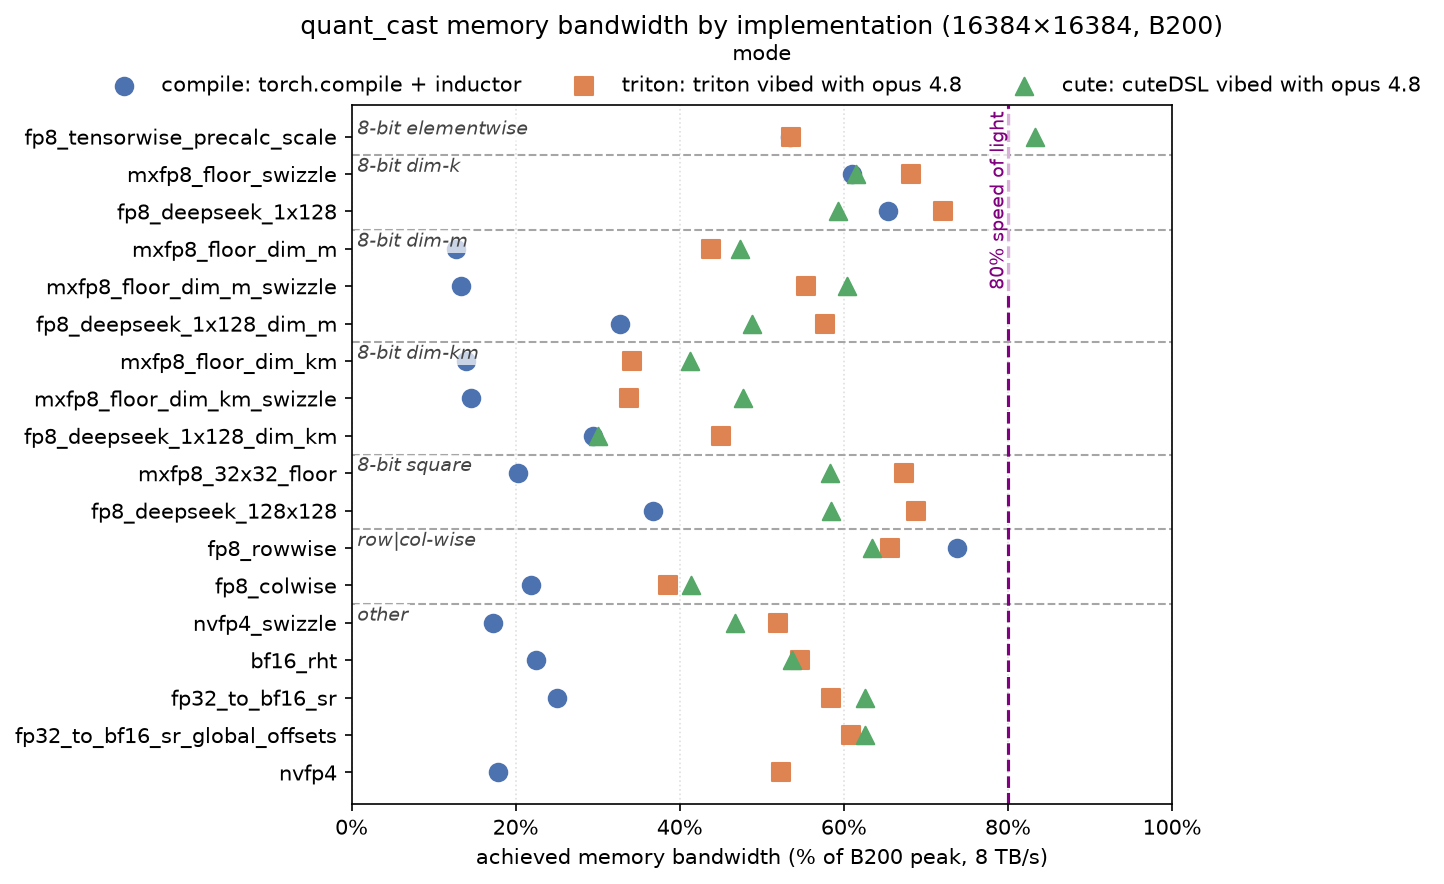
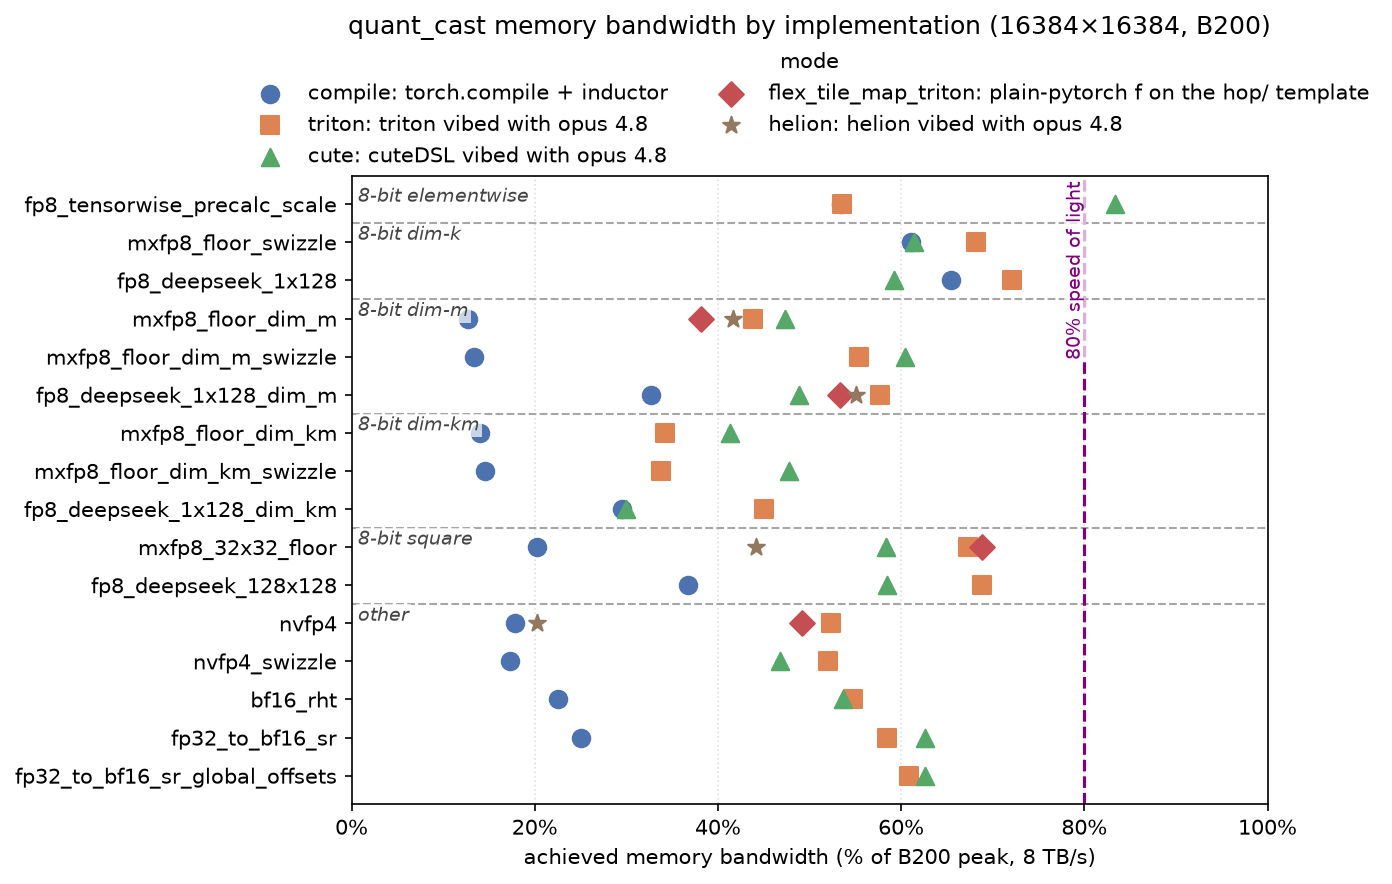
more charts
Summary:

Test Plan:

diff --git a/benchmarks/plot_bench.py b/benchmarks/plot_bench.py
@@ -26,22 +26,28 @@ matplotlib.use("Agg")  # headless: write a PNG, never open a window
 import matplotlib.pyplot as plt  # noqa: E402
 from matplotlib.ticker import PercentFormatter  # noqa: E402
 
-_MODES = ["compile", "triton", "cute"]       # default series order (also the legend order)
+# default series order (also the legend order)
+_MODES = ["compile", "triton", "cute", "flex_tile_map_triton", "helion"]
 _COLORS = {
     "compile": "#4C72B0",
     "triton": "#DD8452",
     "cute": "#55A868",
     "flex_tile_map_triton": "#C44E52",
+    "helion": "#937860",
 }
-_MARKERS = {"compile": "o", "triton": "s", "cute": "^", "flex_tile_map_triton": "D"}  # icon per series
+_MARKERS = {
+    "compile": "o", "triton": "s", "cute": "^", "flex_tile_map_triton": "D", "helion": "*",
+}  # icon per series
 # legend labels spell out what each mode is
 _LABELS = {
     "compile": "compile: torch.compile + inductor",
     "triton": "triton: triton vibed with opus 4.8",
     "cute": "cute: cuteDSL vibed with opus 4.8",
     "flex_tile_map_triton": "flex_tile_map_triton: plain-pytorch f on the hop/ template",
+    "helion": "helion: helion vibed with opus 4.8",
 }
 _BASELINE = "relu (baseline)"
+_EXCLUDE = {"fp8_rowwise", "fp8_colwise"}  # kernels dropped from the chart (still in the CSV/tables)
 # row groupings (by position, top-to-bottom): (label, number of rows). The last group takes all
 # remaining rows. Rendered as full-width dashed separators with a label at the top of each band.
 _GROUP_SIZES = [
@@ -50,7 +56,6 @@ _GROUP_SIZES = [
     ("8-bit dim-m", 3),
     ("8-bit dim-km", 3),
     ("8-bit square", 2),
-    ("row|col-wise", 2),
     ("other", None),  # None = all remaining rows
 ]
 _HERE = os.path.dirname(os.path.abspath(__file__))
@@ -115,10 +120,13 @@ def _plot(data, kernels, out_path, modes=_MODES, group_sizes=_GROUP_SIZES, title
             start += size
             ax.axhline(start - 0.5, color="gray", ls="--", lw=1.0, alpha=0.7, zorder=1)
 
-    # pad the title up to leave room for the horizontal legend sitting just above the axes
-    ax.set_title(title, pad=34)
-    # legend outside the data area (above the axes), series laid out horizontally
-    ax.legend(title="mode", ncol=len(modes), loc="lower center", bbox_to_anchor=(0.5, 1.0),
+    # legend outside the data area (above the axes), series laid out horizontally. Cap the columns
+    # so many/long labels wrap onto multiple rows instead of stretching the figure super-wide.
+    ncol = min(len(modes), 2)
+    nrows = -(-len(modes) // ncol)  # ceil
+    # pad the title up to leave room for the (possibly multi-row) legend sitting just above the axes
+    ax.set_title(title, pad=20 + 16 * nrows)
+    ax.legend(title="mode", ncol=ncol, loc="lower center", bbox_to_anchor=(0.5, 1.0),
               frameon=False, borderaxespad=0.0)
     fig.tight_layout()
     fig.savefig(out_path, dpi=150, bbox_inches="tight")  # bbox_inches captures the outside legend
@@ -151,7 +159,8 @@ def main(
         return p if os.path.isabs(p) else os.path.join(root, p)
 
     data, order = _load(_resolve(csv))
-    kernels = [k for k in order if k != _BASELINE]  # exclude the relu baseline entirely
+    # exclude the relu baseline entirely, plus any chart-only exclusions (still in the CSV/tables)
+    kernels = [k for k in order if k != _BASELINE and k not in _EXCLUDE]
     if kernel_filter is not None:
         kernels = [k for k in kernels if kernel_filter in k]
 

diff --git a/benchmarks/README.md b/benchmarks/README.md
@@ -60,13 +60,15 @@ Default shape is `(M, K) = (16384, 16384)`. Assumes a B200 (peak 8 TB/s).
 ![Memory bandwidth by mode](mem_bw.png)
 
 *Achieved memory bandwidth (% of the B200 8 TB/s peak) on the x-axis, one kernel per row, with a
-marker per implementation (`compile` ●, `triton` ■, `cute` ▲). Every kernel is implemented in all
-three modes. Data lives in
+marker per implementation (`compile` ●, `triton` ■, `cute` ▲, `flex_tile_map_triton` ◆,
+`helion` ★). `compile`/`triton`/`cute` cover every kernel; `flex_tile_map_triton` and `helion`
+implement only a subset (the group-reduction casts), so those series show points on fewer rows.
+Data lives in
 [`bench_results.csv`](bench_results.csv); regenerate the chart with `python benchmarks/plot_bench.py`.
 Refresh the data by re-running the sweeps with the
 `--csv` flag — `rm benchmarks/bench_results.csv` then
-`benchmark.py --mode {compile,triton,cute} --csv benchmarks/bench_results.csv` (once per mode). A
-fresh sweep can differ ±1–2 pts from the tables below (run-to-run variance).*
+`benchmark.py --mode {compile,triton,cute,flex_tile_map_triton,helion} --csv benchmarks/bench_results.csv`
+(once per mode). A fresh sweep can differ ±1–2 pts from the tables below (run-to-run variance).*
 
 ### `--mode compile`
 
@@ -376,10 +378,10 @@ nvfp4                            0.1747  3936.7       49.2%  (1,16) block, fp4 q
 ### `--mode helion`
 
 The Helion kernels (`quant_cast_helion`, one `@helion.kernel` per recipe) are
-**correctness-first, un-autotuned** — each runs a single hand-pinned config (or Helion's default
-`autotune_effort="none"` config), chosen for a fast, deterministic debug loop rather than peak
-bandwidth. Treat these as a functional baseline, not a fair comparison to the tuned
-compile/triton/cute numbers above.
+**correctness-first** — each pins a single config (some picked by an autotuner run and then
+hardcoded, others Helion's default `autotune_effort="none"` config) rather than running a live
+autotune search, chosen for a fast, deterministic debug loop. Treat these as a functional
+baseline, not a fully-tuned comparison to the compile/triton/cute numbers above.
 
 ```
 shape: (16384, 16384)  mode: helion
